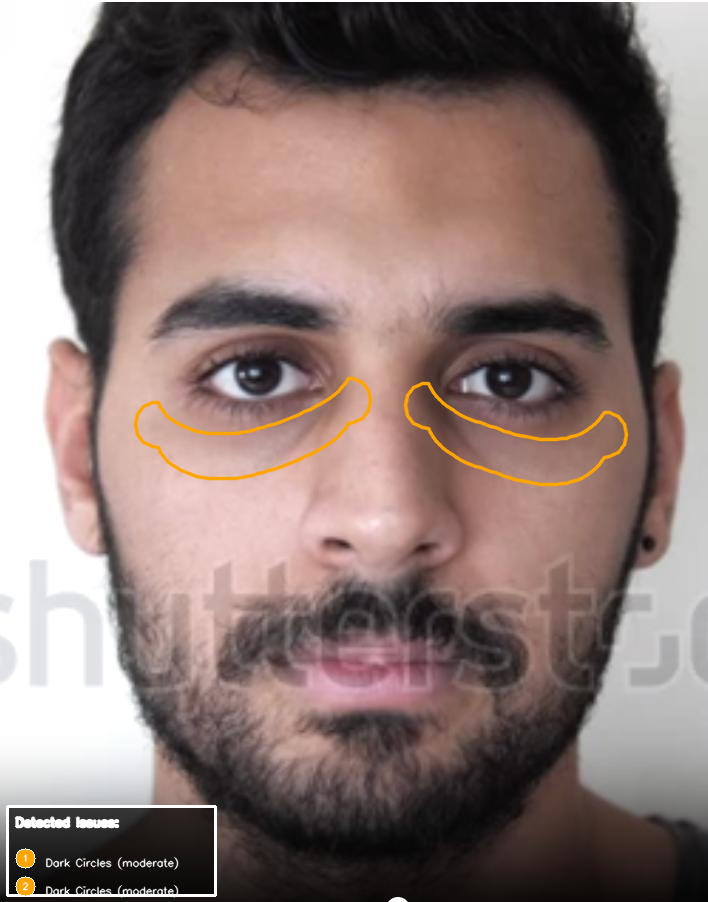
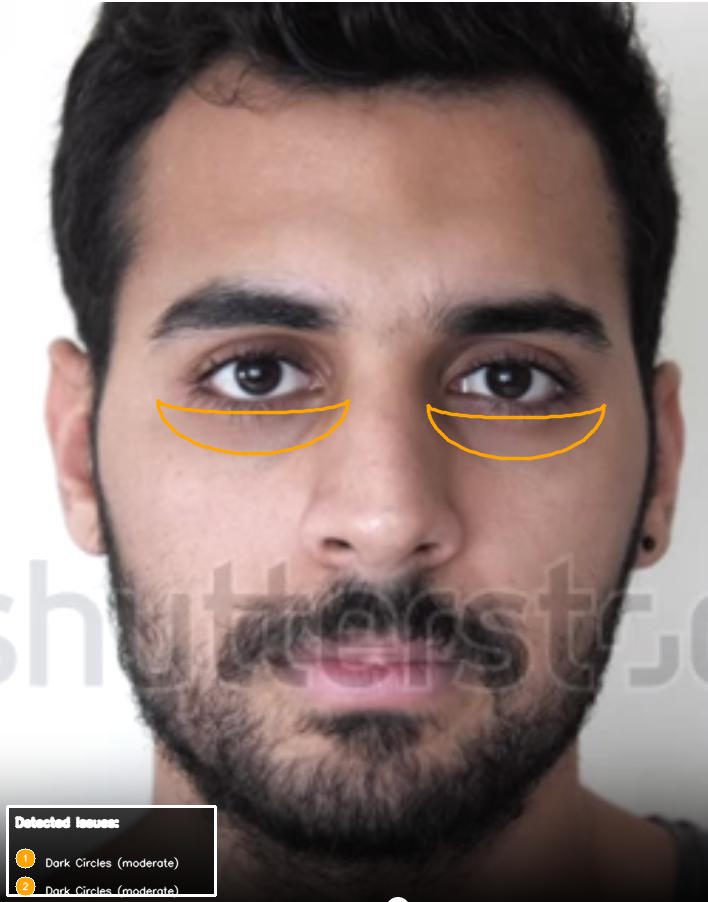
updated: annotations spline for dark circle

diff --git a/skintel-facial-landmarks/main.py b/skintel-facial-landmarks/main.py
@@ -18,10 +18,8 @@ from scipy.interpolate import splprep, splev
 mp_face_mesh = mp.solutions.face_mesh
 face_mesh = None
 
-# MediaPipe Face Mesh Landmark Indices
 LANDMARK_INDICES = {
     'lips': [61, 146, 91, 181, 84, 17, 314, 405, 321, 375, 291, 409, 270, 269, 267, 0, 37, 39, 40, 185],
-    # Extended eye regions - taller to touch under-eye area
     'left_eye': [263, 249, 390, 373, 374, 380, 381, 382, 362, 398, 384, 385, 386, 387, 388, 466, 359, 255, 339, 254, 253, 252, 256, 341],
     'right_eye': [33, 7, 163, 144, 145, 153, 154, 155, 133, 173, 157, 158, 159, 160, 161, 246, 130, 25, 110, 24, 23, 22, 26, 112],
     'left_eyebrow': [276, 283, 282, 295, 285, 300, 293, 334, 296, 336],
@@ -29,31 +27,18 @@ LANDMARK_INDICES = {
     'nose': [1, 2, 98, 327, 195, 5, 4, 275, 440, 220, 45, 274, 237, 44, 19],
     'face_oval': [10, 338, 297, 332, 284, 251, 389, 356, 454, 323, 361, 288, 397, 365, 379, 378, 400, 377, 152, 148, 176, 149, 150, 136, 172, 58, 132, 93, 234, 127, 162, 21, 54, 103, 67, 109],
     'forehead': [10, 338, 297, 332, 284, 251, 389, 356, 454, 323, 67, 109, 10],
-    # Tear trough regions - precise infraorbital fold where dark circles appear
-    # These landmarks trace the crescent-shaped area directly below the lower lash line
     'left_under_eye': [111, 117, 118, 119, 120, 121, 128, 245, 193, 122, 196, 3, 51, 45],
     'right_under_eye': [340, 346, 347, 348, 349, 350, 357, 465, 417, 351, 419, 248, 281, 275],
-    # Specific tear trough for dark circles - tighter crescent under eye
     'left_tear_trough': [111, 117, 118, 119, 120, 121, 128, 245],
     'right_tear_trough': [340, 346, 347, 348, 349, 350, 357, 465],
-    # Smaller cheek areas - just the prominent cheek zone
     'left_cheek': [266, 426, 436, 416, 376, 352, 280, 330],
     'right_cheek': [36, 206, 216, 192, 147, 123, 50, 101],
-    # T-zone smaller region
     't_zone': [10, 151, 9, 8, 168, 6, 197, 195, 5, 4, 1, 19, 94, 2]
 }
 
 def get_region_landmarks(region_name: str, is_dark_circle: bool = False) -> List[int]:
-    """
-    Get landmark indices for a given region name.
-    
-    Args:
-        region_name: Name of the facial region
-        is_dark_circle: If True, forces under-eye region for eye-related queries
-    """
     region_name = region_name.lower()
     
-    # If it's a dark circle, ALWAYS return under-eye landmarks
     if is_dark_circle and 'eye' in region_name:
         if 'left' in region_name:
             return LANDMARK_INDICES['left_under_eye']
@@ -62,7 +47,6 @@ def get_region_landmarks(region_name: str, is_dark_circle: bool = False) -> List
         else:
             return LANDMARK_INDICES['left_under_eye'] + LANDMARK_INDICES['right_under_eye']
     
-    # Prioritize under-eye detection for under-eye keywords
     if 'under' in region_name and 'eye' in region_name:
         if 'left' in region_name:
             return LANDMARK_INDICES['left_under_eye']
@@ -152,7 +136,7 @@ class IssueAnnotationResponse(BaseModel):
 
 app = FastAPI(
     title="Skintel Facial Landmarks API",
-    description="microservice for facial landmarks detection for Skintel ",
+    description="microservice for facial landmarks detection for Skintel",
     version="1.0.0",
     docs_url="/docs",
     redoc_url="/redoc"
@@ -171,7 +155,6 @@ predictor = None
 
 @app.on_event("startup")
 async def startup_event():
-    """init Dlib predictor on startup"""
     global predictor, face_mesh
     try:
         predictor_path = "shape_predictor_68_face_landmarks.dat"
@@ -190,7 +173,6 @@ async def startup_event():
         raise
 
 def extract_landmarks(image_array: np.ndarray) -> List[Dict[str, int]]:
-    """extract all 68 facial landmarks from img"""
     height, width = image_array.shape[:2]
     max_width = 800
     scale = 1.0
@@ -236,13 +218,9 @@ def extract_landmarks(image_array: np.ndarray) -> List[Dict[str, int]]:
 
 
 def get_smooth_curve(points: np.ndarray, num_points: int = 100) -> np.ndarray:
-    """
-    Generate a smooth curve from a set of points using spline interpolation.
-    """
     if len(points) < 3:
         return points
         
-    # Close the loop for interpolation
     points = np.vstack((points, points[0]))
     
     try:
@@ -254,7 +232,7 @@ def get_smooth_curve(points: np.ndarray, num_points: int = 100) -> np.ndarray:
         return smooth_points
     except Exception as e:
         logger.warning(f"Spline interpolation failed: {e}")
-        return points[:-1] # Return original points without the closing duplicate
+        return points[:-1]
 
 def annotate_image_with_issues(image_array: np.ndarray, issues: List[SkinIssue]) -> str:
     results = face_mesh.process(image_array)
@@ -270,16 +248,15 @@ def annotate_image_with_issues(image_array: np.ndarray, issues: List[SkinIssue])
         h, w, _ = annotated_bgr.shape
         
         severity_colors = {
-            'mild': (0, 255, 255),     # Yellow
-            'moderate': (0, 165, 255), # Orange
-            'severe': (0, 0, 255),     # Red
-            'critical': (128, 0, 128)  # Purple
+            'mild': (0, 255, 255),
+            'moderate': (0, 165, 255),
+            'severe': (0, 0, 255),
+            'critical': (128, 0, 128)
         }
         
         for idx, issue in enumerate(issues, start=1):
             color = severity_colors.get(issue.severity.lower(), (255, 255, 255))
             
-            # Dark circle and under-eye specific detection
             is_dark_circle = issue.type.lower() in [
                 'dark_circles', 'dark circles', 'eye_bags', 
                 'puffy_eyes', 'under_eye_circles', 'under-eye circles',
@@ -287,15 +264,12 @@ def annotate_image_with_issues(image_array: np.ndarray, issues: List[SkinIssue])
             ]
             
             if is_dark_circle:
-                # Force tear trough region for dark circles - the infraorbital fold
                 if 'left' in issue.region.lower():
                     indices = LANDMARK_INDICES['left_tear_trough']
                 elif 'right' in issue.region.lower():
                     indices = LANDMARK_INDICES['right_tear_trough']
                 else:
-                    # If no specific side mentioned, mark both tear troughs
                     indices = LANDMARK_INDICES['left_tear_trough'] + LANDMARK_INDICES['right_tear_trough']
-            # Special handling for uneven skin tone - use broader regions
             elif issue.type.lower() in ['uneven_skin_tone', 'uneven skin tone', 'hyperpigmentation', 'post_inflammatory_hyperpigmentation']:
                 if 'cheek' in issue.region.lower():
                     if 'left' in issue.region.lower():
@@ -309,7 +283,6 @@ def annotate_image_with_issues(image_array: np.ndarray, issues: List[SkinIssue])
                 else:
                     indices = get_region_landmarks(issue.region, is_dark_circle=False)
             else:
-                # For all other issues, use the normal region detection
                 indices = get_region_landmarks(issue.region, is_dark_circle=False)
             
             points = []
@@ -320,64 +293,58 @@ def annotate_image_with_issues(image_array: np.ndarray, issues: List[SkinIssue])
             
             points = np.array(points, dtype=np.int32)
             
-            # Update the issue's landmarks with the actual coordinates used
             issue.dlib_68_facial_landmarks = [IssuePoint(x=int(p[0]), y=int(p[1])) for p in points]
             
             if len(points) > 0:
-                # For dark circles and under-eye issues, draw a crescent/moon shape
-                # This is a closed shape that covers the tear trough without going over the eye
                 if is_dark_circle or 'under' in issue.region.lower():
-                    # Sort points from left to right for a proper arc
                     sorted_points = points[np.argsort(points[:, 0])]
                     
                     if len(sorted_points) >= 3:
                         try:
-                            # Calculate bounding box of the tear trough points
                             x_min, y_min = sorted_points.min(axis=0)
                             x_max, y_max = sorted_points.max(axis=0)
                             
-                            # Calculate ellipse parameters
                             center_x = int((x_min + x_max) / 2)
-                            center_y = int(y_min)  # Top of the crescent at the landmark top
+                            center_y = int(y_min)
                             
-                            # Ellipse axes for outer arc
-                            axis_x = int((x_max - x_min) / 2)  # Half width
-                            outer_axis_y = int(h * 0.06)  # Outer height (bottom edge of crescent) - taller
-                            inner_axis_y = int(h * 0.015)  # Inner height (top edge of crescent, hugs the eye)
+                            axis_x = int((x_max - x_min) / 2)
+                            outer_axis_y = int(h * 0.06)
+                            inner_axis_y = int(h * 0.015)
                             
-                            # Generate points for outer arc (bottom of crescent) - 0° to 180°
                             num_points = 50
                             angles = np.linspace(0, np.pi, num_points)
                             outer_arc_x = center_x + axis_x * np.cos(angles)
                             outer_arc_y = center_y + outer_axis_y * np.sin(angles)
                             outer_arc = np.column_stack((outer_arc_x, outer_arc_y))
                             
-                            # Generate points for inner arc (top of crescent) - 180° to 0° (reversed)
                             inner_arc_x = center_x + axis_x * np.cos(angles[::-1])
                             inner_arc_y = center_y + inner_axis_y * np.sin(angles[::-1])
                             inner_arc = np.column_stack((inner_arc_x, inner_arc_y))
                             
-                            # Combine to form closed crescent shape
-                            crescent_shape = np.vstack([outer_arc, inner_arc]).astype(np.int32)
+                            crescent_raw = np.vstack([outer_arc, inner_arc])
                             
-                            # Draw the closed crescent outline
+                            try:
+                                tck, u = splprep(crescent_raw.T, u=None, s=20.0, per=1)
+                                u_new = np.linspace(0, 1, 150)
+                                x_smooth, y_smooth = splev(u_new, tck, der=0)
+                                crescent_shape = np.column_stack((x_smooth, y_smooth)).astype(np.int32)
+                            except:
+                                crescent_shape = crescent_raw.astype(np.int32)
+                            
                             cv2.polylines(annotated_bgr, [crescent_shape], isClosed=True, color=color, thickness=2, lineType=cv2.LINE_AA)
                         except Exception as e:
                             logger.warning(f"Crescent drawing failed for dark circle: {e}")
-                            # Fallback to simple convex hull
                             hull = cv2.convexHull(sorted_points)
                             cv2.polylines(annotated_bgr, [hull], isClosed=True, color=color, thickness=2, lineType=cv2.LINE_AA)
                     else:
                         cv2.polylines(annotated_bgr, [sorted_points], isClosed=False, color=color, thickness=2, lineType=cv2.LINE_AA)
-                # For eyes and lips, use smooth curves
                 elif 'eye' in issue.region.lower() or 'lip' in issue.region.lower():
                     smooth_points = get_smooth_curve(points)
                     cv2.polylines(annotated_bgr, [smooth_points], isClosed=True, color=color, thickness=1, lineType=cv2.LINE_AA)
                 else:
-                    # For other regions, use convex hull
                     hull = cv2.convexHull(points)
                     hull = np.squeeze(hull)
-                    if len(hull.shape) == 1: # Handle case with single point or malformed hull
+                    if len(hull.shape) == 1:
                          hull = hull.reshape(-1, 2)
                          
                     smooth_points = get_smooth_curve(hull)
@@ -491,11 +458,10 @@ def annotate_image_with_issues(image_array: np.ndarray, issues: List[SkinIssue])
 
 @app.get("/", response_model=Dict[str, str])
 async def get_api_info():
-    """Get API info"""
     return {
         "service": "Skintel Facial Landmarks API",
         "version": "1.0.0",
-        "description": "microservice for facial landmarks detection for Skintel ",
+        "description": "microservice for facial landmarks detection for Skintel",
         "endpoints": {
             "health": "GET /health",
             "landmarks": "POST /api/v1/landmarks",
@@ -505,7 +471,6 @@ async def get_api_info():
 
 @app.get("/health", response_model=HealthResponse)
 async def get_health():
-    """health check endpoint"""
     return HealthResponse(
         status="healthy",
         service="facial-landmarks-api",
@@ -514,13 +479,6 @@ async def get_health():
 
 @app.post("/api/v1/landmarks", response_model=LandmarksResponse)
 async def create_landmarks_detection(request: ImageUrlRequest):
-    """
-    detect 68 facial landmarks from image URL
-    
-    - **image_url**: URL to image file (JPEG, PNG, etc.)
-    
-    this will return facial landmarks with x, y coordinates and index for each point.
-    """
     try:
         parsed_url = urlparse(request.image_url)
         if not parsed_url.scheme or not parsed_url.netloc:
@@ -584,13 +542,6 @@ class AnnotationRequest(BaseModel):
 
 @app.post("/api/v1/annotate-issues-from-url", response_model=IssueAnnotationResponse)
 async def annotate_skin_issues_from_url(request: AnnotationRequest):
-    """
-    Annotate skin issues on an image from URL
-    
-    - **request**: JSON body containing image_url and list of issues
-    
-    Returns an annotated image with colored regions highlighting each issue.
-    """
     image_url = request.image_url
     issues = request.issues
     try:
@@ -649,7 +600,7 @@ async def annotate_skin_issues_from_url(request: AnnotationRequest):
             status="success",
             annotated_image=annotated_image_data,
             total_issues=len(issues),
-            issues=issues,  # Return updated issues with correct landmarks
+            issues=issues,
             image_info=ImageInfo(
                 filename=filename,
                 width=image.width,
@@ -669,7 +620,6 @@ async def annotate_skin_issues_from_url(request: AnnotationRequest):
 
 @app.get("/api/v1/landmarks/info")
 async def get_landmarks_info():
-    """get info of facial landmarks"""
     return {
         "total_points": 68,
         "point_groups": {
